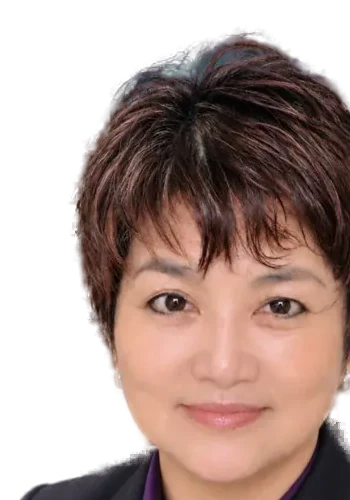
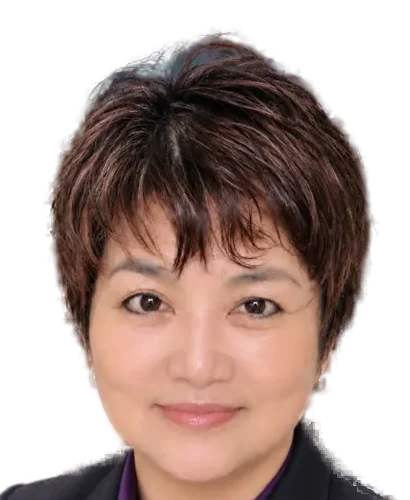
主視覺肖像升級 v2：410×500 去背版、卡片加大 360px 並置中

diff --git a/index.html b/index.html
@@ -50,8 +50,8 @@ nav{position:fixed;top:0;left:0;right:0;z-index:50;background:rgba(250,243,236,.
 .chips{display:flex;flex-wrap:wrap;gap:10px;margin:0 0 28px}
 .chip{font-size:20px;font-weight:700;background:#fff;border:1px solid var(--line);border-radius:999px;padding:.35rem 1rem;color:var(--ink)}
 .hero-cta{display:flex;gap:14px;flex-wrap:wrap}
-.hero-photo{position:relative;max-width:300px;margin-left:auto;width:100%}
-.hero-photo .arch{border-radius:28px;overflow:hidden;border:6px solid #fff;box-shadow:0 24px 60px rgba(138,70,50,.25);transform-origin:center;transition:transform .6s ease;background:linear-gradient(180deg,#f6ead9 0%,#f3e7db 55%,#eee0cb 100%);padding:22px 22px 0}
+.hero-photo{position:relative;max-width:360px;margin:0 auto;width:100%}
+.hero-photo .arch{border-radius:28px;overflow:hidden;border:6px solid #fff;box-shadow:0 24px 60px rgba(138,70,50,.25);transform-origin:center;transition:transform .6s ease;background:linear-gradient(180deg,#f6ead9 0%,#f3e7db 55%,#eee0cb 100%);padding:16px 16px 0}
 .hero-photo img{width:100%;height:auto;display:block}
 .hero-photo .badge{position:absolute;left:-14px;bottom:-8px;background:#fff;border:1px solid var(--line);border-radius:16px;padding:.7rem 1.1rem;font-size:20px;font-weight:900;color:var(--clay-d);box-shadow:0 10px 30px rgba(138,70,50,.18)}
 .hero-photo .badge small{display:block;font-size:20px;color:var(--muted);font-weight:700}
@@ -165,7 +165,7 @@ footer .f-links a{margin:0 10px;white-space:nowrap}
       </div>
     </div>
     <div class="hero-photo">
-      <div class="arch" id="heroArch"><img src="images/photo-iris-cutout.webp" alt="李羽妍 Iris Lee 肖像" width="350" height="500"></div>
+      <div class="arch" id="heroArch"><img src="images/photo-iris-cutout.webp" alt="李羽妍 Iris Lee 肖像" width="410" height="500"></div>
       <div class="badge">科技有溫度<small>美學走進生活</small></div>
     </div>
   </div>

diff --git a/prompts.html b/prompts.html
@@ -49,7 +49,7 @@ img{max-width:100%;border-radius:12px;margin:8px 0}
 <img src="images/IMG-008.webp" alt="IMG-008">
 
 <h2>真實照片</h2>
-<p>photo-iris-cutout.webp｜李羽妍本人肖像去背版，取自教練提供的講師介紹海報（isnet-general-use 全張去背後裁切，350×500 透明底）。主視覺肖像用此去背版，臉與頭頂完整。</p>
+<p>photo-iris-cutout.webp｜李羽妍本人肖像去背版，取自教練提供的講師介紹海報（isnet-general-use 全張去背後裁切，410×500 透明底）。主視覺肖像用此去背版，臉與頭頂完整。</p>
 <img src="images/photo-iris-cutout.webp" alt="李羽妍肖像">
 </body>
 </html>
